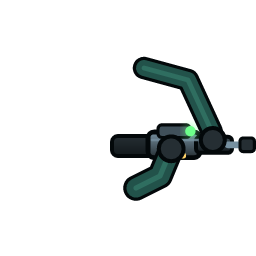
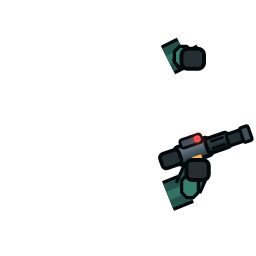
Art slice v2: heavy plated clone, one-handed SMG, off-hand arc blade
- Chamfered slab armour (pauldrons, chest block, boxy pack, bucket helmet), no curved plate
- SMG angled so its muzzle sits on the aim line; arms rebuilt as butt-capped armour blocks
- Arc blade carried reverse-grip in the left hand; swing effect replaces it while the blade is out
- New clone_sword part; tuning.art hand/rest values

Claude-Session: https://claude.ai/code/session_01KsHW6HFcgrcYZ1b3GGa2PB

Changed region(s): [[0.4062, 0.1562, 1.0, 0.8438]]

diff --git a/art/clone.vx.js b/art/clone.vx.js
@@ -1,93 +1,121 @@
-// The clone, seen from above, facing +x (right). Every part is a 64x64 canvas centred on (32,32)
-// so the game can stack them at the same origin and animate by offsetting. Lighting is
-// radial/symmetric on purpose: the sprite rotates with the aim, so a baked top-left light would spin.
+// The clone, seen from above, facing +x (right). Heavy, blocky plate: chamfered slabs, no curves
+// where armour would be cast. One-handed SMG in the right hand (+y), arc blade in the left (-y).
+// Every part is a 64x64 canvas centred on (32,32) so the game stacks them at one origin and
+// animates by offsets. Lighting is radial/symmetric on purpose: the sprite rotates with the aim.
 pal({
-  k: "#03080a", rim: "#6dff8a",
+  k: "#03080a",
   a0: "#0b1716", a1: "#143028", a2: "#22524a", a3: "#37806f", a4: "#74d6b4",
-  gr: "#6dff8a", gd: "#2cae58",
   m0: "#12181b", m1: "#252e33", m2: "#40505a", m3: "#7690a0",
-  au: "#ffd36b", ao: "#ff9a3c",
+  gr: "#6dff8a", au: "#ffb347", rd: "#ff4d4d",
+  bl: "#7fe8ff", bw: "#eafcff",
 })
-ramps("a0 a1 a2 a3 a4")
 
-const C = 32
+// Chamfered rectangle: corners cut at 45 degrees. Returns poly points.
+const cr = (x, y, w, h, c) => [
+  x + c, y, x + w - c, y, x + w, y + c, x + w, y + h - c,
+  x + w - c, y + h, x + c, y + h, x, y + h - c, x, y + c,
+]
+const plate = (x, y, w, h, c, fill, extra = {}) => poly(cr(x, y, w, h, c), { fill, stroke: "k", sw: 1.3, ...extra })
+const edge = (x, y, w, h, c, col = "a4", o = 0.55) => poly(cr(x, y, w, h, c), { fill: "none", stroke: col, sw: 0.7, opacity: o })
+const rivet = (x, y) => circle(x, y, 0.95, { fill: "m3", stroke: "k", sw: 0.5 })
 
-// ---------- body: backpack, torso, pauldrons ----------
+// ---------- body: pack, torso, pauldrons ----------
 const pauldron = (s) => {
-  const y = C + s * 16
+  const cy = 32 + s * 17
   return [
-    // outer plate
-    rect(23, y - 6, 19, 12, { r: 5, fill: rad(["a3", "a2", "a1"], { cx: 0.5, cy: 0.5, r: 0.75 }), stroke: "k", sw: 1.4 }),
-    // raised rim and trim stripe
-    rect(25, y - 4, 15, 8, { r: 3.5, fill: "none", stroke: "a4", sw: 0.8, opacity: 0.7 }),
-    rect(27, y - 1.1, 11, 2.2, { r: 1, fill: "gr", glow: { r: 3, color: "gr", strength: 1 } }),
-    circle(40, y, 1.3, { fill: "m3", stroke: "k", sw: 0.6 }),
-    circle(25, y, 1.1, { fill: "m3", stroke: "k", sw: 0.6 }),
+    plate(21.5, cy - 8, 23, 16, 4.5, rad(["a3", "a2", "a1"], { cx: 0.5, cy: 0.5, r: 0.8 })),
+    plate(25, cy - 5.2, 14, 10.4, 3, rad(["a4", "a3", "a2"], { cx: 0.5, cy: 0.5, r: 0.9 }), { sw: 0.8 }),
+    edge(23.5, cy - 6.5, 19, 13, 3.5),
+    rect(40.2, cy - 6, 2.4, 12, { r: 0.6, fill: "au", stroke: "k", sw: 0.6 }),   // forward trim, amber
+    s < 0
+      ? [rect(27.5, cy - 2.2, 8, 1.4, { fill: "k", opacity: 0.55 }), rect(27.5, cy + 0.8, 8, 1.4, { fill: "k", opacity: 0.55 })]
+      : [rect(27.5, cy - 2.8, 1.4, 5.6, { fill: "k", opacity: 0.55 }), rect(30.5, cy - 2.8, 1.4, 5.6, { fill: "k", opacity: 0.55 }), rect(33.5, cy - 2.8, 1.4, 5.6, { fill: "k", opacity: 0.55 })],
+    rivet(23.8, cy - 5.6), rivet(23.8, cy + 5.6), rivet(38.4, cy - 5.6), rivet(38.4, cy + 5.6),
   ]
 }
 
 sprite("clone_body", { w: 64, h: 64 },
-  // power pack behind the shoulders
-  rect(11, 23, 14, 18, { r: 3.5, fill: lin(["m2", "m0"], 0), stroke: "k", sw: 1.4 }),
-  rect(13, 26, 8, 2, { r: 1, fill: "k" }),
-  rect(13, 30.5, 8, 2, { r: 1, fill: "k" }),
-  rect(13, 35, 8, 2, { r: 1, fill: "k" }),
-  rect(10.5, 29, 2.6, 6, { r: 1, fill: "gr", glow: { r: 4, color: "gr", strength: 2 } }),
-  // torso
-  blob([20, 32, 23, 23, 32, 19.5, 40, 23, 43, 32, 40, 41, 32, 44.5, 23, 41],
-    { fill: rad(["a3", "a2", "a0"], { cx: 0.55, cy: 0.5, r: 0.8 }), stroke: "k", sw: 1.4 }),
-  // chest plate: centre keel and a bright aquila-ish chevron
-  clip(blob([20, 32, 23, 23, 32, 19.5, 40, 23, 43, 32, 40, 41, 32, 44.5, 23, 41], "k"),
-    rect(33, 24, 3, 16, { fill: "a4", opacity: 0.35 }),
-    line([26, 27, 34, 32, 26, 37], { stroke: "a4", sw: 1.3, opacity: 0.8 }),
-    ellipse(36, 32, 7, 11, { fill: "a4", opacity: 0.12 })),
-  circle(38.5, 32, 1.6, { fill: "gr", glow: { r: 3, color: "gr", strength: 1.5 } }),
+  // power pack: boxy, ribbed, twin exhausts
+  plate(6.5, 21, 16, 22, 3.5, lin(["m2", "m0"], 0)),
+  rect(9, 25, 9, 1.6, { fill: "k" }), rect(9, 29.7, 9, 1.6, { fill: "k" }), rect(9, 34.4, 9, 1.6, { fill: "k" }),
+  rect(5.5, 28.5, 3, 7, { r: 1, fill: "gr", glow: { r: 4, color: "gr", strength: 2 } }),
+  circle(12, 22, 1.7, { fill: "m0", stroke: "m3", sw: 0.6 }), circle(12, 42, 1.7, { fill: "m0", stroke: "m3", sw: 0.6 }),
+  rect(20, 26.5, 4, 11, { fill: "m1", stroke: "k", sw: 1 }),
+  // torso: slab with a raised chest block and a core light
+  plate(19.5, 20.5, 25.5, 23, 5.5, rad(["a3", "a2", "a0"], { cx: 0.55, cy: 0.5, r: 0.85 })),
+  plate(27, 24.5, 14, 15, 3.5, rad(["a4", "a3", "a1"], { cx: 0.5, cy: 0.5, r: 0.8 }), { sw: 0.9 }),
+  edge(25.5, 23, 17, 18, 4),
+  line([27, 32, 41, 32], { stroke: "k", sw: 0.8, opacity: 0.5 }),
+  rect(34.4, 29.4, 5, 5.2, { r: 1.2, fill: "m1", stroke: "k", sw: 0.7 }),
+  circle(36.9, 32, 1.5, { fill: "gr", glow: { r: 3, color: "gr", strength: 1.6 } }),
+  rivet(29, 26.5), rivet(29, 37.5), rivet(39.5, 26.5), rivet(39.5, 37.5),
   pauldron(-1), pauldron(1))
 
-// ---------- helmet ----------
+// ---------- helmet: a blocky bucket with one wide visor ----------
 sprite("clone_head", { w: 64, h: 64 },
-  blob([24, 32, 26, 26, 32, 23, 38, 26, 41, 32, 38, 38, 32, 41, 26, 38],
-    { fill: rad(["a3", "a2", "a0"], { cx: 0.6, cy: 0.5, r: 0.75 }), stroke: "k", sw: 1.4 }),
-  // crest ridge front to back
-  line([26, 32, 38, 32], { stroke: "a1", sw: 2.2, opacity: 0.8 }),
-  line([26.5, 32, 37.5, 32], { stroke: "a4", sw: 0.8, opacity: 0.8 }),
-  // visor: a slit that glows
-  path("M 37.5 27 Q 41.5 32 37.5 37 L 36 36 Q 39 32 36 28 Z",
-    { fill: "gr", stroke: "k", sw: 0.5, glow: { r: 2.5, color: "gr", strength: 1.2 } }),
-  // rear vents
-  line([25, 29, 25, 35], { stroke: "k", sw: 1.1, opacity: 0.7 }))
+  plate(24.5, 24, 17, 16, 5, rad(["a3", "a2", "a0"], { cx: 0.6, cy: 0.5, r: 0.8 })),
+  edge(26, 25.5, 14, 13, 4, "a4", 0.5),
+  rect(27, 29, 8, 6, { r: 1.5, fill: "a1", stroke: "k", sw: 0.6, opacity: 0.8 }),             // crown plate
+  rect(37, 27.4, 4.4, 9.2, { r: 1.3, fill: "m0", stroke: "k", sw: 0.8 }),                     // visor housing
+  rect(37.9, 28.4, 3.2, 7.2, { r: 1, fill: "gr", glow: { r: 2.6, color: "gr", strength: 1.3 } }),
+  line([27.5, 26.2, 27.5, 28], { stroke: "k", sw: 0.9, opacity: 0.7 }), line([27.5, 36, 27.5, 37.8], { stroke: "k", sw: 0.9, opacity: 0.7 }),
+  rect(24, 30, 2.6, 4, { fill: "m1", stroke: "k", sw: 0.7 }))                                 // rear cable port
 
-// ---------- arms and carbine ----------
+// ---------- arms and one-handed SMG ----------
+// Armour blocks along a segment: butt-capped so they read as plates, not tubes.
+const seg = (pts, w, hi = true) => [
+  line(pts, { stroke: "k", sw: w + 1.6, cap: "butt", join: "miter" }),
+  line(pts, { stroke: "a2", sw: w, cap: "butt", join: "miter" }),
+  hi ? line(pts, { stroke: "a3", sw: w * 0.35, cap: "butt", join: "miter", opacity: 0.7 }) : null,
+]
+
+// The SMG is drawn level along y=39 from the grip at x=44, then angled in so the muzzle sits on the
+// aim line (x=63, y~32.5): that is where the game spawns bullets.
+const smg = () => tf({ rot: -19, origin: [44, 39] },
+  rect(44, 37, 9, 4.6, { r: 1, fill: lin(["m3", "m1"], 90), stroke: "k", sw: 1 }),             // receiver
+  rect(52, 37.4, 6, 3.8, { r: 0.8, fill: lin(["m2", "m0"], 90), stroke: "k", sw: 0.9 }),       // shroud
+  line([53.5, 38.4, 56.5, 38.4], { stroke: "k", sw: 0.7 }), line([53.5, 40.2, 56.5, 40.2], { stroke: "k", sw: 0.7 }),
+  rect(57.5, 38, 4.6, 3, { r: 0.6, fill: "m1", stroke: "k", sw: 0.8 }),                         // barrel + brake
+  rect(61.2, 37.6, 2.2, 3.8, { r: 0.5, fill: "m2", stroke: "k", sw: 0.8 }),
+  rect(40, 37.4, 5, 3.8, { r: 1, fill: "m1", stroke: "k", sw: 0.9 }),                           // folded stock block
+  rect(46, 35.6, 5.5, 2.2, { r: 0.6, fill: "m2", stroke: "k", sw: 0.7 }),                        // sight rail
+  circle(50.4, 36.7, 0.9, { fill: "rd", glow: { r: 2, color: "rd", strength: 1.4 } }),           // red dot
+  rect(47.5, 40.6, 2.6, 1.2, { r: 0.4, fill: "au" }))                                           // ejection port
+
 sprite("clone_arms", { w: 64, h: 64 },
-  // carbine, held right of centre (+y is the clone's right hand). Muzzle tip at x=63.
-  rect(28, 34, 11, 5, { r: 1.5, fill: lin(["m1", "m0"], 90), stroke: "k", sw: 1 }),         // stock
-  rect(37, 33, 13, 6.4, { r: 1.5, fill: lin(["m3", "m1"], 90), stroke: "k", sw: 1.2 }),      // receiver
-  rect(49, 34.2, 9, 4, { r: 1, fill: lin(["m2", "m0"], 90), stroke: "k", sw: 1 }),            // handguard
-  line([57, 36.2, 62, 36.2], { stroke: "m3", sw: 1.7 }),                                        // barrel
-  rect(60, 34.5, 3.6, 3.4, { r: 0.8, fill: "m1", stroke: "k", sw: 0.8 }),                       // muzzle brake
-  rect(39.5, 31.2, 8, 3.2, { r: 1, fill: "m2", stroke: "k", sw: 0.8 }),                         // optic body
-  circle(47.6, 32.8, 1.3, { fill: "gr", glow: { r: 2.5, color: "gr", strength: 1.2 } }),        // optic lens
-  rect(43.5, 38.2, 3, 1.4, { r: 0.5, fill: "au" }),                                             // ejection port
-  line([38, 35, 50, 35], { stroke: "m3", sw: 0.6, opacity: 0.8 }),
-  // right arm: shoulder to grip
-  line([34, 47, 40, 44, 42.5, 38], { stroke: "k", sw: 6.4 }),
-  line([34, 47, 40, 44, 42.5, 38], { stroke: "a2", sw: 4.8 }),
-  line([34, 47, 40, 44, 42.5, 38], { stroke: "a3", sw: 1.3, opacity: 0.6 }),
-  circle(42.8, 37.2, 3.1, { fill: "m1", stroke: "k", sw: 1 }),
-  // left arm: shoulder out and across to the handguard
-  line([36, 17, 47, 20, 53, 33], { stroke: "k", sw: 5.6 }),
-  line([36, 17, 47, 20, 53, 33], { stroke: "a2", sw: 4 }),
-  line([36, 17, 47, 20, 53, 33], { stroke: "a3", sw: 1.2, opacity: 0.6 }),
-  circle(53.2, 35, 3, { fill: "m1", stroke: "k", sw: 1 }))
+  // right arm to the gun: upper arm out of the pauldron, forearm bent in to the grip
+  seg([42, 49, 47, 47], 6.4), seg([47, 47, 49, 42.5], 5.6),
+  plate(45.4, 43.8, 4.2, 5.6, 1.3, "a3", { sw: 0.8 }),                                       // vambrace cap
+  smg(),
+  rect(46.6, 40, 5.6, 5, { r: 1.5, fill: "m1", stroke: "k", sw: 1 }),                        // gauntlet on the grip
+  // left arm, bent, holding the sword low at the side
+  seg([42, 15, 46, 13], 6.4), seg([46, 13, 47.5, 15.5], 5.6),
+  plate(43.6, 11.6, 4.4, 5.2, 1.3, "a3", { sw: 0.8 }),
+  rect(45.4, 12.2, 5.6, 5, { r: 1.5, fill: "m1", stroke: "k", sw: 1 }))                      // gauntlet on the hilt
+
+// ---------- arc blade ----------
+// Pivot (the hand) is the canvas centre (32,32); the blade points +x. The game rotates this part
+// about the hand: low and out at rest, following the swing arc while the blade is out.
+sprite("clone_sword", { w: 64, h: 64 },
+  rect(23, 30.2, 9, 3.6, { r: 1, fill: "m1", stroke: "k", sw: 0.9 }),                         // grip
+  rect(21.4, 29.4, 2.6, 5.2, { r: 0.8, fill: "au", stroke: "k", sw: 0.7 }),                   // pommel
+  rect(31.6, 27.6, 3.2, 8.8, { r: 0.8, fill: "m2", stroke: "k", sw: 0.9 }),                   // guard
+  poly([34.8, 30.4, 58, 30.7, 62.6, 32, 58, 33.3, 34.8, 33.6],
+    { fill: lin(["bw", "bl"], 90), stroke: "bl", sw: 0.8, glow: { r: 3, color: "bl", strength: 1.6 } }),
+  line([36, 32, 59, 32], { stroke: "bw", sw: 0.8, opacity: 0.9 }))
 
 // ---------- boots ----------
-sprite("clone_boot", { w: 16, h: 10 },
-  rect(1.5, 1.5, 13, 7, { r: 3, fill: lin(["m2", "m0"], 0), stroke: "k", sw: 1.2 }),
-  rect(9, 2.4, 4.4, 5.2, { r: 2, fill: "m3", opacity: 0.55 }),
-  line([3.5, 5, 7, 5], { stroke: "a3", sw: 1, opacity: 0.7 }))
+sprite("clone_boot", { w: 18, h: 11 },
+  poly(cr(1.5, 1.5, 15, 8, 2.6), { fill: lin(["m2", "m0"], 0), stroke: "k", sw: 1.2 }),
+  poly(cr(9.8, 2.5, 5.8, 6, 1.6), { fill: "m3", opacity: 0.5 }),
+  line([3.5, 4.2, 7.5, 4.2], { stroke: "a3", sw: 0.8, opacity: 0.8 }),
+  line([3.5, 6.6, 7.5, 6.6], { stroke: "a3", sw: 0.8, opacity: 0.8 }))
 
-// A look-at sheet (not used by the game): everything assembled, on the game's dark ground.
+// A look-at sheet (not used by the game): the rest pose assembled on the game's dark ground.
 scene("clone_assembled", { w: 96, h: 64, bg: "#05080a" },
-  tf({ x: 16 }, stamp("clone_boot", 28, 25, { anchor: "center" }), stamp("clone_boot", 38, 39, { anchor: "center" }),
-    stamp("clone_body", 32, 32, { anchor: "center" }), stamp("clone_arms", 32, 32, { anchor: "center" }),
+  tf({ x: 16 },
+    stamp("clone_boot", 28, 22, { anchor: "center" }), stamp("clone_boot", 38, 42, { anchor: "center" }),
+    stamp("clone_body", 32, 32, { anchor: "center" }),
+    tf({ x: 15, y: -20, rot: -40, origin: [32, 32] }, stamp("clone_sword", 32, 32, { anchor: "center" })),
+    stamp("clone_arms", 32, 32, { anchor: "center" }),
     stamp("clone_head", 32, 32, { anchor: "center" })))

diff --git a/src/fx/playerRig.ts b/src/fx/playerRig.ts
@@ -5,7 +5,7 @@ import { TUNING } from '../data/tuning';
 
 const A = TUNING.art;
 
-export const CLONE_PARTS = ['clone_body', 'clone_head', 'clone_arms', 'clone_boot'] as const;
+export const CLONE_PARTS = ['clone_body', 'clone_head', 'clone_arms', 'clone_boot', 'clone_sword'] as const;
 
 export class PlayerRig {
   readonly root: Phaser.GameObjects.Container;
@@ -14,6 +14,7 @@ export class PlayerRig {
   private body: Phaser.GameObjects.Image;
   private arms: Phaser.GameObjects.Image;
   private head: Phaser.GameObjects.Image;
+  private sword: Phaser.GameObjects.Image;
   private parts: Phaser.GameObjects.Image[];
   private phase = 0;
   private recoil = 0;
@@ -24,9 +25,10 @@ export class PlayerRig {
     this.bootL = mk('clone_boot');
     this.bootR = mk('clone_boot');
     this.body = mk('clone_body');
+    this.sword = mk('clone_sword').setPosition(A.handX, A.handY).setRotation(A.swordRestRot);
     this.arms = mk('clone_arms');
     this.head = mk('clone_head');
-    this.parts = [this.bootL, this.bootR, this.body, this.arms, this.head];
+    this.parts = [this.bootL, this.bootR, this.body, this.sword, this.arms, this.head];
     this.root = scene.add.container(0, 0, this.parts).setDepth(depth);
     this.layout(0);
   }
@@ -51,6 +53,11 @@ export class PlayerRig {
     }
   }
 
+  /** The sprite blade is carried at rest; while the arc blade is out, the swing effect replaces it. */
+  setBladeOut(out: boolean): void {
+    this.sword.setVisible(!out);
+  }
+
   setDashing(on: boolean): void {
     this.root.setScale(on ? A.dashStretch : 1, on ? 1 / A.dashStretch : 1);
   }
@@ -70,5 +77,6 @@ export class PlayerRig {
     this.arms.x = -this.recoil;
     this.head.x = -this.recoil * 0.35;
     this.body.x = -this.recoil * 0.12;
+    this.sword.x = A.handX - this.recoil * 0.2;
   }
 }

diff --git a/src/scenes/Boot.ts b/src/scenes/Boot.ts
@@ -5,12 +5,14 @@ import bodyUrl from '../assets/art/clone_body.png?url';
 import headUrl from '../assets/art/clone_head.png?url';
 import armsUrl from '../assets/art/clone_arms.png?url';
 import bootUrl from '../assets/art/clone_boot.png?url';
+import swordUrl from '../assets/art/clone_sword.png?url';
 
 const CLONE_URLS: Record<(typeof CLONE_PARTS)[number], string> = {
   clone_body: bodyUrl,
   clone_head: headUrl,
   clone_arms: armsUrl,
   clone_boot: bootUrl,
+  clone_sword: swordUrl,
 };
 
 // Loads the vex-built character parts, bakes the small effect textures from vector drawing, then

diff --git a/src/data/tuning.ts b/src/data/tuning.ts
@@ -38,6 +38,9 @@ export const TUNING = {
     recoil: 3.4, // px the carbine and helmet snap back per shot
     recoilRecover: 34,
     dashStretch: 1.12,
+    handX: 16.2, // left fist, in px from the clone's centre (art/clone.vx.js)
+    handY: -17.3,
+    swordRestRot: 3.4, // radians: reverse grip, blade carried back and out along the left side
   },
 
   gun: {

diff --git a/src/scenes/FeelTest.ts b/src/scenes/FeelTest.ts
@@ -848,6 +848,7 @@ export class FeelTest extends Phaser.Scene {
       this.sfx.empty();
     }
 
+    this.rig.setBladeOut(sw.state !== 'idle');
     if (sw.state === 'idle') {
       this.bladeGfx.clear();
       this.bladeGlow.setVisible(false);
